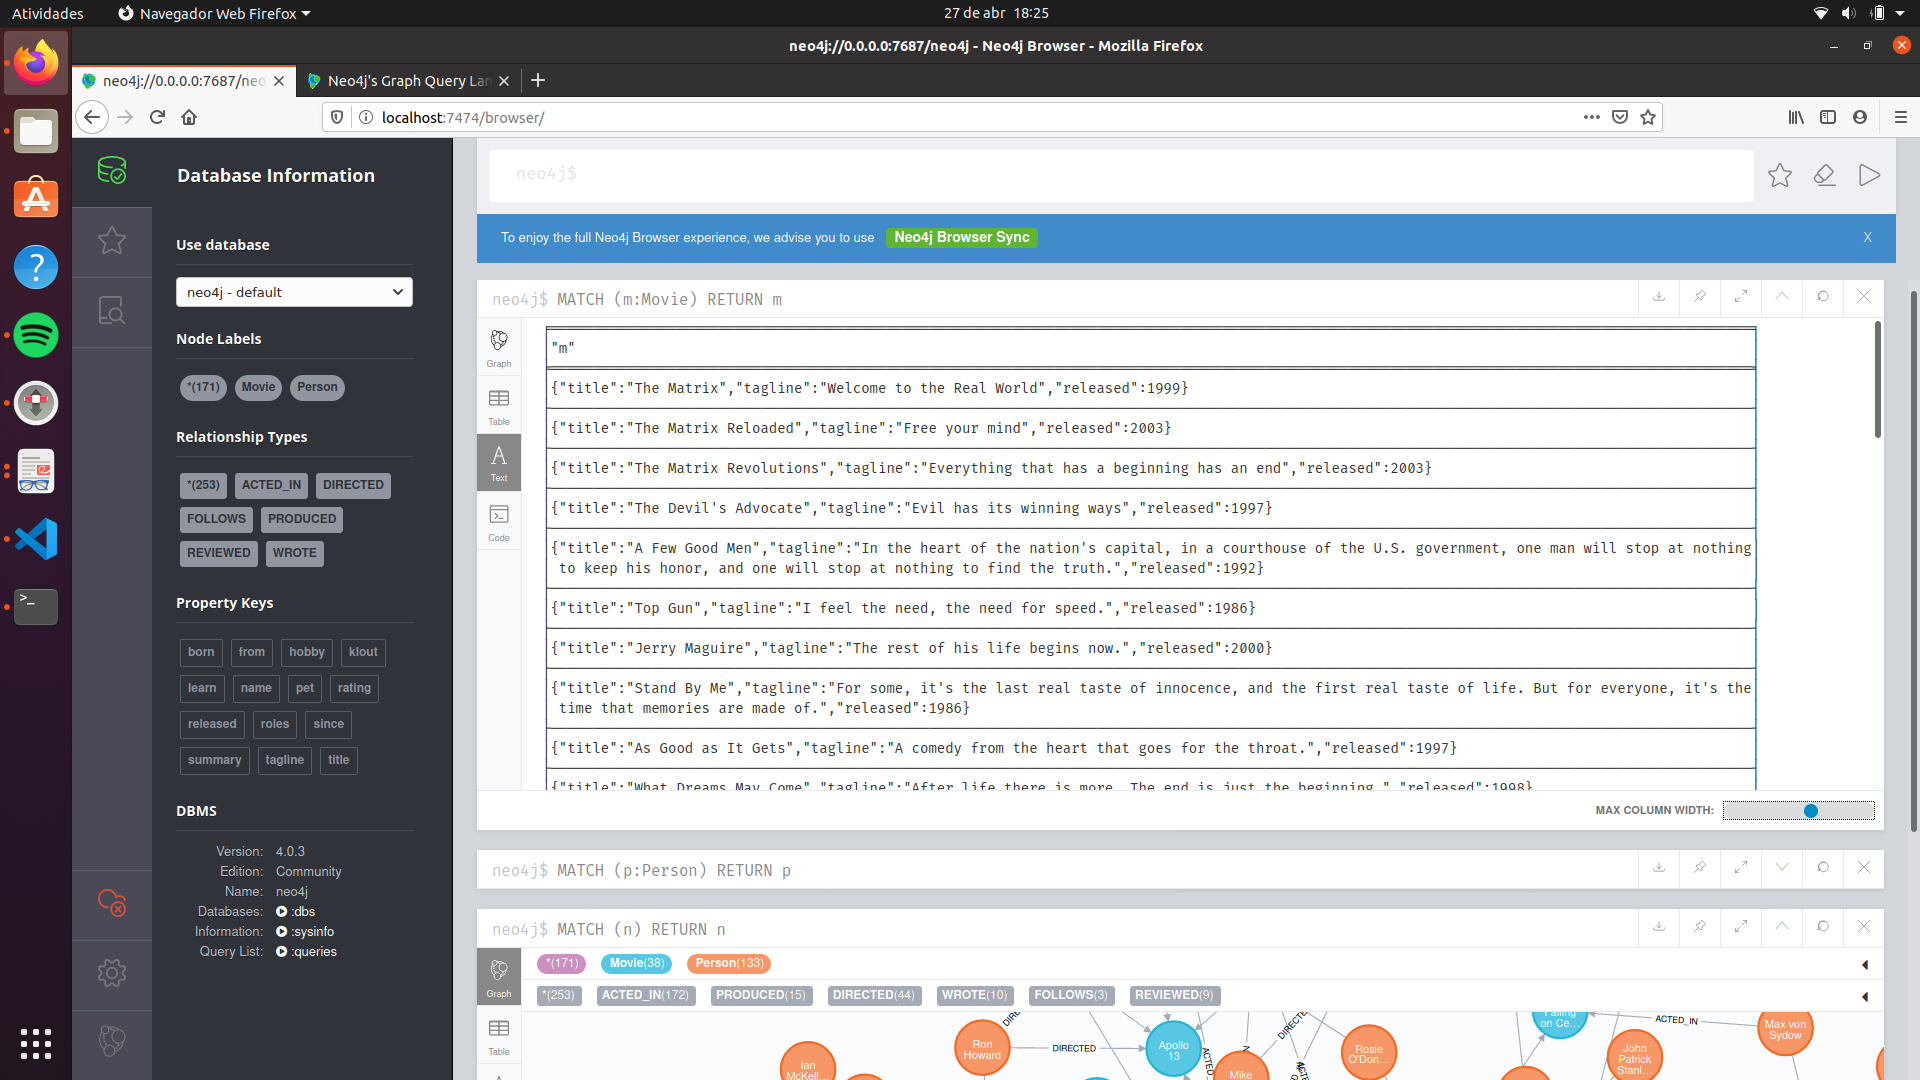
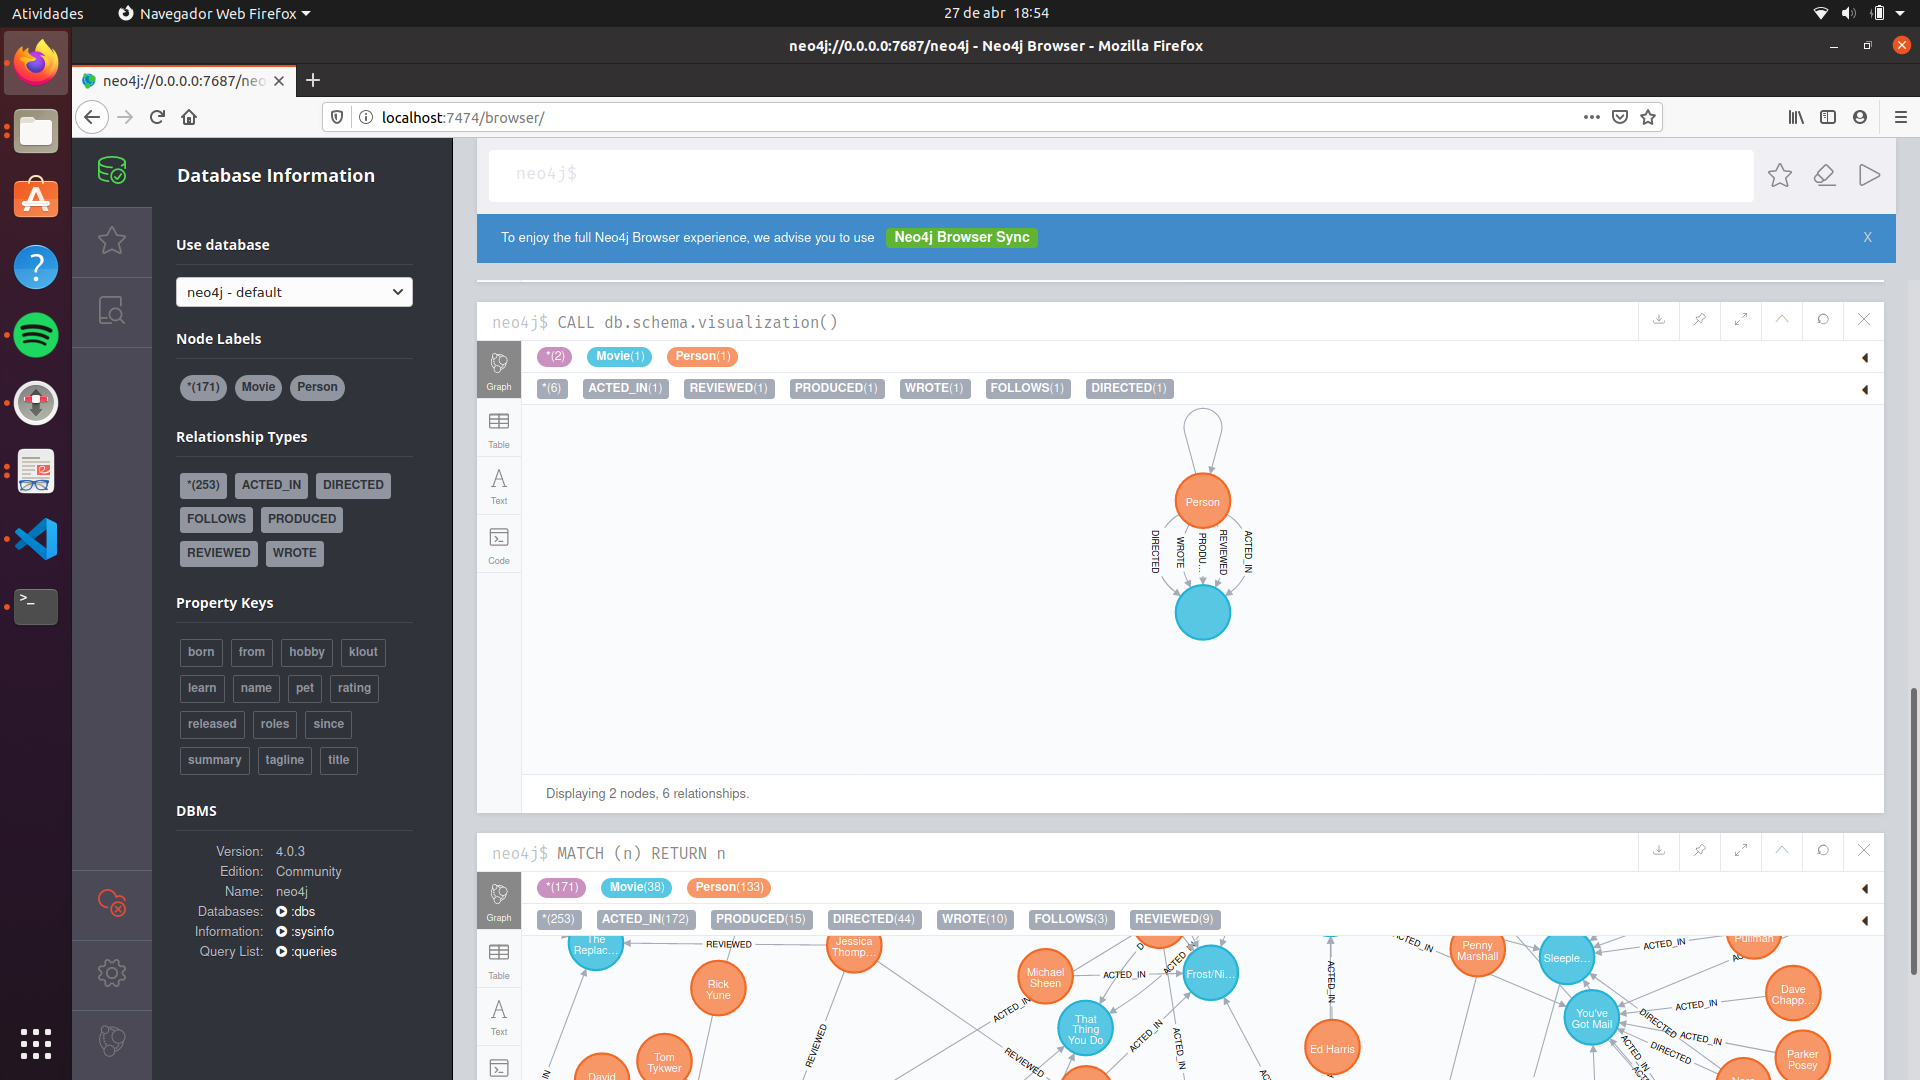
neo4j exercicio 1

Changed region(s): [[0.25, 0.2444, 1.0, 1.0], [0.1562, 0.0611, 0.25, 0.0917]]

diff --git a/CMP.0013.00.02 - Banco de Dados Não Relacionais/Neo4j/README.md b/CMP.0013.00.02 - Banco de Dados Não Relacionais/Neo4j/README.md
@@ -17,12 +17,7 @@ No editor, executar o comando `:play movie-graph`, navegar para a seguinda pági
 `MATCH (n) RETURN n`
 
 ### 2. Examine the data model for the graph.
-Informações do modelo de dados:
-- 171 Nodes;
-- 253 Relationships;
-- 2 Labels: Movie e Person;
-- 6 Tipos de Relationships: ACTED_IN, DIRECTED, FOLLOWS, PRODUCED, REVIEWED e WROTE;
-- 14 Properties: born, from, hobby, klout, learn, name, pet, rating, released, roles, since, summary, tagline e title.
+`CALL db.schema.visualization()`
 
 ### 3. Retrieve all Person nodes.
 `MATCH (p:Person) RETURN p`
